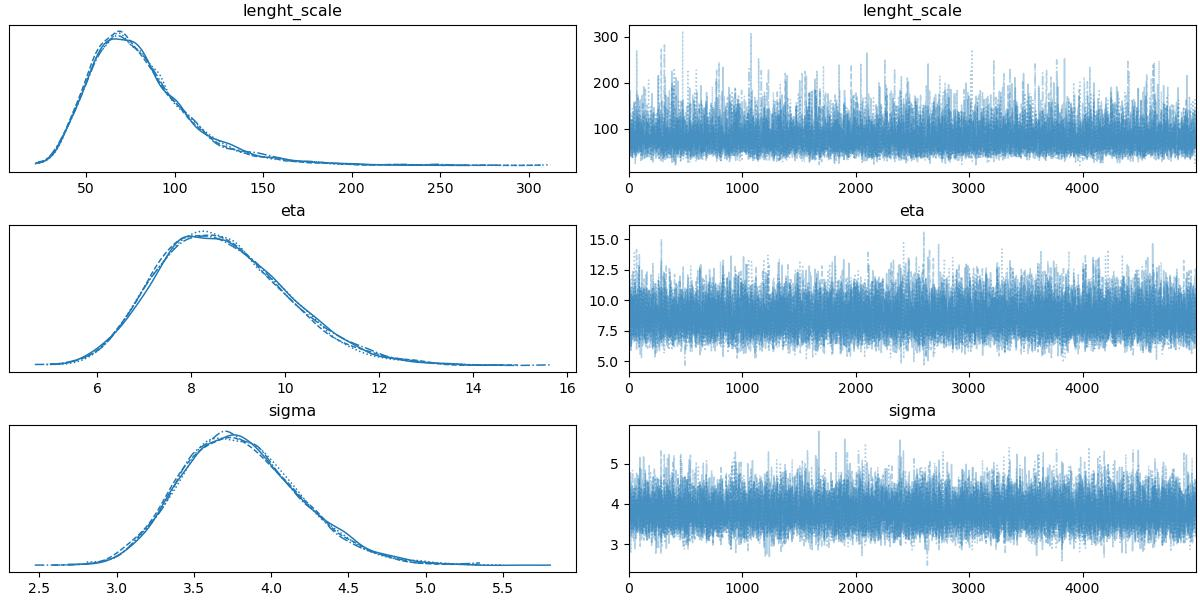
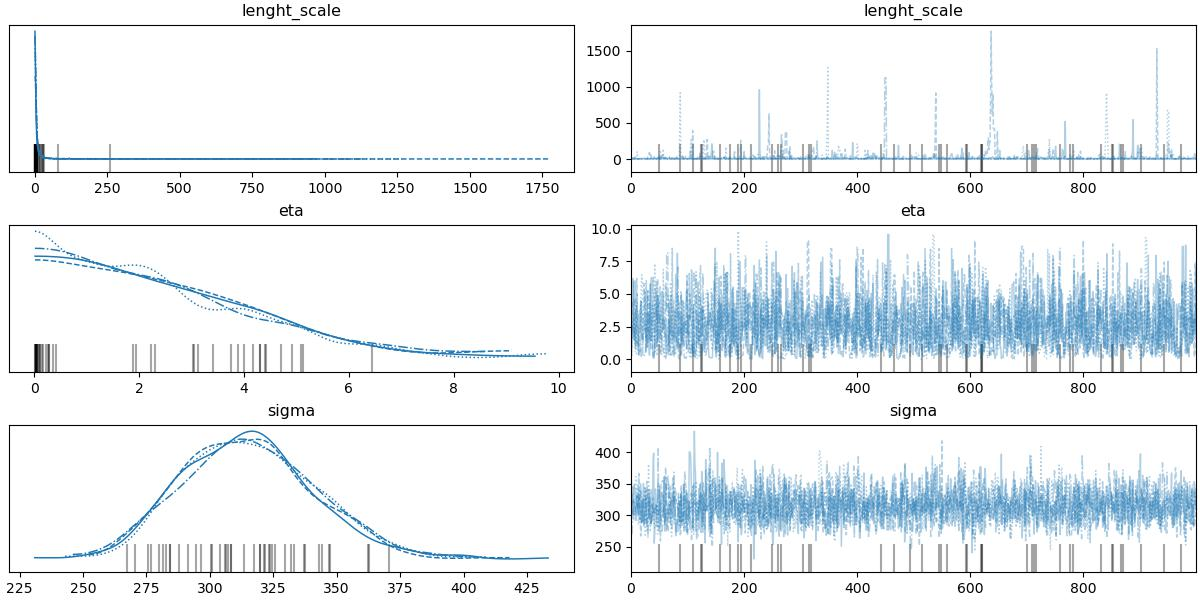
all

diff --git a/damageModel.py b/damageModel.py
@@ -1,0 +1,90 @@
+#%%
+import numpy as np
+import scipy
+import pymc3 as pm
+import arviz as az
+import pandas as pd
+import matplotlib.pyplot as plt
+from pymc3.gp.util import plot_gp_dist
+import json
+import jax.numpy as jnp
+from jax import vmap ,jit
+
+SN_data = scipy.io.loadmat('SN_curve.mat')
+log_N = SN_data['X'].flatten()
+S = SN_data['Y'].flatten().reshape((-1,1))
+
+#%%
+# A one dimensional column vector of inputs.
+with pm.Model() as SNCurveModel:
+    # Specify the covariance function.
+    l = pm.HalfCauchy('lenght_scale', beta=3)
+    eta = pm.HalfNormal('eta', sigma=3)
+    cov_func = eta**2*pm.gp.cov.ExpQuad(input_dim=1, ls=l)
+
+    # Specify the GP.  The default mean function is `Zero`.
+    gp = pm.gp.Marginal(cov_func=cov_func)
+
+    # The scale of the white noise term can be provided,
+    sigma = pm.HalfCauchy("sigma", beta=5)
+    y_ = gp.marginal_likelihood("y", X=S, y=log_N, noise=sigma)
+
+    # trace = pm.sample(draws=5000, tune=2000)
+    trace = pm.sample()
+    summ = az.summary(trace)
+    print(summ)
+    az.plot_trace(trace)
+    plt.savefig('plots3/traceplot.jpg')
+    plt.close()
+
+#%%
+ds = 1 # in some units that make sense
+SNew = np.linspace(S.min(), S.max(), 100)[:, None]
+SNewDS = np.linspace(S.min()+ds, S.max()+ds, 100)[:, None]
+with SNCurveModel:
+    NNew = gp.conditional("NNew", Xnew=SNew, pred_noise=True)
+    NNewDS = gp.conditional("NNewDS", Xnew=SNewDS, pred_noise=True)
+
+    # or to predict the GP plus noise
+    y_samples = pm.sample_posterior_predictive(trace=trace, var_names=['NNew','NNewDS'])
+
+#%%
+def A(arr1, arr2):
+    arr1 = jnp.array(arr1)
+    arr2 = jnp.array(arr2)
+    return arr1/arr2
+
+damageFun = vmap(A,in_axes=(0,0))
+damageVals = damageFun(y_samples['NNew'], y_samples['NNewDS'])
+
+with open('plots3/damage.npy','w') as file:
+    jnp.save(file,damageVals)
+with open('plots3/samples.json','w') as file:
+    json.dump(y_samples, file)
+#%%
+# _, ax = plt.subplots(1,1,figsize=(12,8))
+# ax.hist(damageVals.flatten(), density=True)
+
+# ax.set_xlabel('Stress')
+# ax.set_ylabel('Damage Parameter A')
+# plt.savefig('plots3/damage.jpg')
+# plt.close()
+
+# _, ax = plt.subplots(1,1,figsize=(12,8))
+# plot_gp_dist(ax, samples=y_samples['NNew'], x=NNew)
+# plt.savefig('plots3/NNewDist.jpg')
+# plt.close()
+
+# _, ax = plt.subplots(1,1,figsize=(12,8))
+# plot_gp_dist(ax, samples=y_samples['NNewDS'], x=NNewDS)
+
+# plt.savefig('plots3/NNewDist2.jpg')
+# plt.close()
+
+
+# # # The mean and full covariance
+# # mu, cov = gp.predict(SNew, point=trace[-1])
+
+# # # With noise included
+# # mu, var = gp.predict(SNew, point=trace[-1],  diag=True, pred_noise=True)
+
